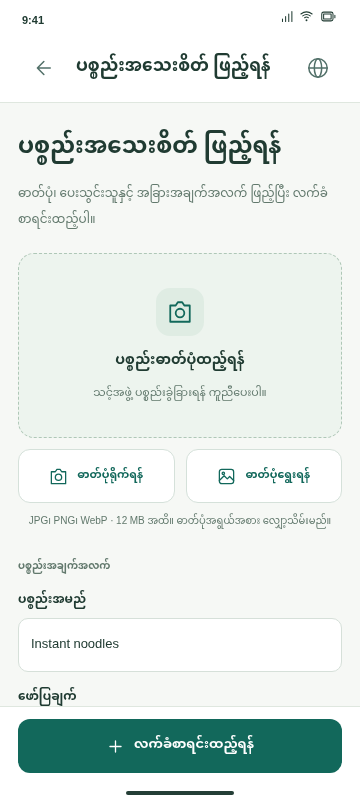
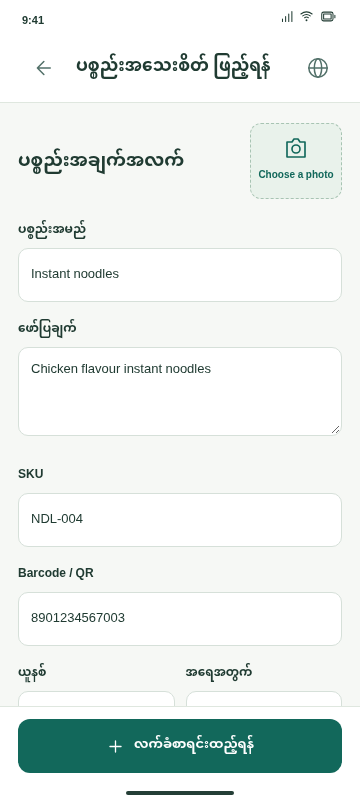
Refine item detail form with compact photo picker and supplier section

diff --git a/assets/app.js b/assets/app.js
@@ -96,12 +96,12 @@ function render(){
  h=`<div class="product-list">${productCard(p)}</div><div class="section-title"><h3>${t('allStock')}</h3><span class="pill">${esc(p.category||'—')}</span></div><div class="card">${kv('available',number(p.qty)+' '+p.unit)}${kv('threshold',number(p.threshold)+' '+p.unit)}${kv('location',p.location||'—')}${kv('barcode',p.barcode||t('noBarcode'))}${kv('supplier',supplierName(p.supplier))}${kv('description',p.description||'—')}${p.fda?kv('fda',p.fda):''}</div>${(p.batches||[]).filter(b=>b.qty>0).map(b=>`<div class="card"><span class="pill">${t('batch')} · ${esc(b.id)}</span>${kv('quantity',number(b.qty)+' '+p.unit)}${kv('expiry',date(b.expiry))}</div>`).join('')}<button class="button secondary full" ${action('reorder',p.id)}>${icon('suppliers')}${t('reorder')}</button>`;
  f=`<div class="two-col">${button('stockIn','productMove','in','primary','stockIn')}${button('stockOut','productMove','out','secondary','stockOut')}</div>${button('count','productMove','count','soft','count')}`;break}
  case'add':h=heading('addTitle','addHint')+sessionBanner()+`<button class="choice featured" ${action('scanStart')}><span>${icon('scan')}</span><span class="grow"><strong>${t('scanVoice')}</strong><p>${t('scanVoiceHint')}</p></span>${icon('chevron')}</button><button class="choice" ${action('manualStart')}><span>${icon('edit')}</span><span class="grow"><strong>${t('manual')}</strong><p>${t('manualHint')}</p></span>${icon('chevron')}</button>`+notice('nothingSaved');break;
- case'manual':h=heading('productInformation')+productForm()+notice('nothingSaved');f=button('review','reviewManual','','primary','arrow');break;
+ case'manual':h=productForm()+notice('nothingSaved');f=button('review','reviewManual','','primary','arrow');break;
  case'scan':h=`<div class="row between" style="margin-bottom:14px"><span class="pill">${icon('scan')}${t('scan')}</span><button class="text-button" ${action('manualStart')}>${icon('edit')}${t('manual')}</button></div>`+steps(1)+heading('scanTitle','scanHint')+`<div class="scanner"><video id="camera-video" muted playsinline></video><div class="scan-frame">${icon('barcode')}<div class="scan-line"></div></div><span class="scanner-caption" id="camera-status">BARCODE / QR</span></div>${button('camera','camera','','secondary','camera')}<p class="screen-caption">${t('cameraHint')}</p>${field('code','enterCode',form.code||'')}${button('findCode','findCode','','soft','search')}<p class="field-heading">${t('trySample')}</p><div class="demo-options">${['noodles','water','bread'].map((k,i)=>`<button ${action('sampleCode',i)}>${t(k)}</button>`).join('')}</div>`;break;
  case'detected':
  case'voice':h=`<span class="pill code-detected">${icon('check')}${t('barcodeDetected')}</span><div class="card detected-banner code-summary">${kv('barcode',form.barcode||'—')}${kv('status',t(form.existingId?'existingProduct':'newProduct'))}</div><h1 class="voice-heading">${t('useVoice')}</h1><p class="page-description">${t('voiceEntryHint')}</p><div class="voice-example">${t('voiceExample')}</div>${form.existingId?notice('sameProductHint'):''}<div class="voice-alternatives"><button class="text-button" id="hold-mic" aria-label="${t('holdTalk')}">${icon('mic')}${t('holdTalk')}</button><button class="text-button" ${action('sampleVoice')}>${t('useSample')}</button></div><p class="voice-demo-note">${t('voiceDemo')}</p>`;f=`<p class="voice-language">${t('speakLanguages')}</p><button class="push-talk-button" id="tap-record" ${action('tapRecord')} aria-label="${t('voice')}" aria-pressed="false">${icon('mic')}<strong id="recording-label">${t('voice')}</strong><span id="recording-hint">${t('tapRecord')}</span></button>`+button('manual','go','manual','secondary','keyboard');break;
  case'review':h=(form.method==='voice'?steps(3):'')+heading('reviewTitle','reviewHint')+(form.transcript?`<span class="overline">${t('transcript')}</span><div class="transcript">“${esc(form.transcript)}”</div>`:'')+`<div class="card">${kv('name',form.name)}${kv('barcode',form.barcode||'—')}${kv('quantity',number(parseNum(form.qty))+' '+form.unit)}${kv('description',form.description||'—')}${kv('supplier',supplierName(form.supplier))}${kv('expiry',date(form.expiry))}${kv('remark',form.remark||'—')}</div>`+notice('nothingSaved');f=button(form.method==='voice'?'confirmItem':'saveProduct',form.method==='voice'?'completeItem':'saveManual','','primary','check')+`<div class="two-col">${button('edit','go','manual','secondary','edit')}${form.method==='voice'?button('retryVoice','go','voice','secondary','mic'):button('cancel','go','add','secondary')}</div>`;break;
- case'itemDetails':h=heading('itemDetails','itemDetailsHint')+photoPanel()+`<p class="field-heading">${t('productInformation')}</p>${field('name','name')}${field('description','description',form.description||'','textarea')}<div class="two-col">${field('qty','quantity',form.qty,'number')}${field('unit','unit',form.unit||'packs')}</div>${field('barcode','barcode')}<p class="field-heading">${t('supplier')}</p>${supplierField()}<button class="button secondary full" ${action('addSupplier')}>${icon('plus')}${t('addSupplier')}</button>${selectedSupplierCard()}<p class="field-heading">${t('extraDetails')}</p><div class="two-col">${field('stockDate','stockDate',form.stockDate||today(),'date')}${field('expiry','expiry',form.expiry||'','date')}</div>${field('fda','fda')}${field('remark','remark',form.remark||'','textarea')}`+notice('sessionNotice');f=button('addToReceiving','queueItem','','primary','plus');break;
+ case'itemDetails':h=photoPanel()+`${field('name','name')}${field('description','description',form.description||'','textarea')}${field('sku','sku')}${field('barcode','barcode')}<div class="two-col">${field('unit','unit',form.unit||'packs')}${field('qty','quantity',form.qty,'number')}</div>${field('threshold','threshold',form.threshold??'10','number','thresholdHint')}<p class="field-heading">${t('supplier')}</p>${supplierField()}<button class="button secondary full" ${action('addSupplier')}>${icon('plus')}${t('addSupplier')}</button>${selectedSupplierCard()}<p class="field-heading">${t('extraDetails')}</p><div class="two-col">${field('stockDate','stockDate',form.stockDate||today(),'date')}${field('expiry','expiry',form.expiry||'','date')}</div>${field('fda','fda')}${field('remark','remark',form.remark||'','textarea')}`+notice('sessionNotice');f=button('addToReceiving','queueItem','','primary','plus');break;
  case'supplierForm':h=heading('addSupplier','supplierFormHint')+supplierForm();f=button('saveSupplier','saveSupplier','','primary','check')+button('cancel','supplierCancel','','secondary');break;
  case'session':h=heading('receiving','receivingHint')+(queue.length?queue.map((p,i)=>`<div class="session-item"><div class="row">${productArt(p)}<div class="grow"><h3>${esc(p.name)}</h3><p class="subline">${esc(p.barcode||p.sku||'—')}</p><p class="subline">${number(getProduct(p.existingId)?.qty||0)} → ${number((getProduct(p.existingId)?.qty||0)+parseNum(p.qty))} ${esc(p.unit)}</p></div><div class="stock-number"><strong>+${number(parseNum(p.qty))}</strong><small>${esc(p.unit)}</small></div></div><div class="two-col"><label class="form-field"><span>${t('expiry')}</span><input type="date" data-queue="${i}" data-key="expiry" value="${esc(p.expiry||'')}"></label><label class="form-field"><span>${t('remark')}</span><input data-queue="${i}" data-key="remark" value="${esc(p.remark||'')}"></label></div><div class="row between"><button class="text-button" ${action('editQueued',i)}>${icon('edit')}${t('editItem')}</button><button class="text-button bad" ${action('removeQueued',i)}>${icon('close')}${t('remove')}</button></div></div>`).join('')+notice('sessionNotice'):empty('sessionEmpty','sessionEmptyHint','count'));f=(queue.length?button('saveDelivery','saveDelivery','','primary','check'):'')+button('addAnother','scanStart','','secondary','plus');break;
  case'choose':h=heading(mode==='out'?'chooseOut':mode==='count'?'chooseCount':'chooseIn','chooseHint')+searchBox()+`<label class="form-field"><span>${t('selectProduct')}</span><select id="product-select"><option value="">— ${t('selectProduct')} —</option>${db.products.map(p=>`<option value="${esc(p.id)}">${esc(p.name)} · ${number(p.qty)} ${esc(p.unit)}</option>`).join('')}</select></label><div id="results">${productResults()}</div>`;if(mode==='in')f=button('add','newProduct','','secondary','plus');break;
@@ -130,8 +130,8 @@ function render(){
  $('preview-offline').setAttribute('aria-pressed',String(isOffline()));
  document.querySelectorAll('[data-icon]').forEach(el=>el.innerHTML=icon(el.dataset.icon));
 }
-function productForm(){return `<p class="field-heading">${t('productInformation')}</p>${field('name','name')}${field('description','description',form.description||'','textarea')}<div class="two-col">${field('sku','sku')}${field('barcode','barcode')}</div><div class="two-col">${field('fda','fda')}${field('category','category',form.category||'Food & staples','select','',options(['Food & staples','Packaged food','Beverages','Household','Other'].map(x=>[x,x]),form.category||'Food & staples'))}</div><p class="field-heading">${t('stockInformation')}</p><div class="two-col">${field('qty','quantity',form.qty,'number')}${field('unit','unit',form.unit||'packs')}</div>${supplierField()}<button class="button secondary full" ${action('addSupplier')}>${icon('plus')}${t('addSupplier')}</button><div class="two-col" style="margin-top:16px">${field('stockDate','stockDate',form.stockDate||today(),'date')}${field('expiry','expiry',form.expiry||'','date')}</div>${field('threshold','threshold',form.threshold??'10','number')}${field('remark','remark',form.remark||'','textarea')}<label class="form-field photo-input"><span>${t('photo')}</span><input type="file" id="photo-input" accept="image/png,image/jpeg,image/webp"><small>${t('photoHint')}</small><span id="photo-preview">${form.photo?`<img class="photo-preview" src="${esc(form.photo)}" alt="${t('photo')}">`:''}</span></label>`}
-function photoPanel(){return `<div class="photo-panel"><div class="photo-stage" id="photo-preview">${form.photo?`<img src="${esc(form.photo)}" alt="${t('photo')}">`:`<span class="photo-symbol">${icon('camera')}</span><strong>${t('photoPlaceholder')}</strong><p>${t('photoOptional')}</p>`}</div><div class="two-col"><label class="button secondary photo-control">${icon('camera')}${t('takePhoto')}<input type="file" data-product-photo accept="image/*" capture="environment" aria-label="${t('takePhoto')}"></label><label class="button secondary photo-control">${icon('photo')}${t('chooseGallery')}<input type="file" data-product-photo accept="image/jpeg,image/png,image/webp" aria-label="${t('chooseGallery')}"></label></div><p class="screen-caption">${t('photoHint')}</p>${form.photo?`<button class="text-button" ${action('removePhoto')}>${icon('close')}${t('removePhoto')}</button>`:''}</div>`}
+function productForm(){return photoPanel()+`${field('name','name')}${field('description','description',form.description||'','textarea')}<div class="two-col">${field('sku','sku')}${field('barcode','barcode')}</div><div class="two-col">${field('fda','fda')}${field('category','category',form.category||'Food & staples','select','',options(['Food & staples','Packaged food','Beverages','Household','Other'].map(x=>[x,x]),form.category||'Food & staples'))}</div><p class="field-heading">${t('stockInformation')}</p><div class="two-col">${field('unit','unit',form.unit||'packs')}${field('qty','quantity',form.qty,'number')}</div>${field('threshold','threshold',form.threshold??'10','number','thresholdHint')}${supplierField()}<button class="button secondary full" ${action('addSupplier')}>${icon('plus')}${t('addSupplier')}</button><div class="two-col" style="margin-top:16px">${field('stockDate','stockDate',form.stockDate||today(),'date')}${field('expiry','expiry',form.expiry||'','date')}</div>${field('remark','remark',form.remark||'','textarea')}`}
+function photoPanel(){return `<div class="product-info-heading"><h1>${t('productInformation')}</h1><details class="photo-picker"><summary id="photo-preview" aria-label="${t('photoPlaceholder')}">${form.photo?`<img src="${esc(form.photo)}" alt="${t('photo')}"><span class="photo-tile-edit">${icon('camera')}</span>`:`${icon('camera')}<span>${t('addPhoto')}</span>`}</summary><div class="photo-menu"><strong>${t('photo')}</strong><label class="button secondary photo-control">${icon('camera')}${t('takePhoto')}<input type="file" data-product-photo accept="image/*" capture="environment" aria-label="${t('takePhoto')}"></label><label class="button secondary photo-control">${icon('photo')}${t('chooseGallery')}<input type="file" data-product-photo accept="image/jpeg,image/png,image/webp" aria-label="${t('chooseGallery')}"></label><p>${t('photoHint')}</p>${form.photo?`<button class="text-button" ${action('removePhoto')}>${icon('close')}${t('removePhoto')}</button>`:''}</div></details></div>`}
 function selectedSupplierCard(){const s=db.suppliers.find(s=>s.id===form.supplier);return s?`<div class="card" style="margin-top:12px"><div class="row">${icon('suppliers')}<strong>${esc(s.name)}</strong></div>${s.contact?kv('contactPerson',s.contact):''}${s.phone?kv('contactNumber',s.phone):''}${s.email?kv('email',s.email):''}${s.social?kv('social',s.social):''}${s.address?kv('address',s.address):''}</div>`:''}
 function supplierForm(){return ['supplierName','contactPerson','contactNumber','email','social','address'].map((key,i)=>{const fieldName=['name','contact','phone','email','social','address'][i];return `<label class="form-field"><span>${t(key)}${i===0?' *':''}</span>${fieldName==='address'?`<textarea data-supplier-field="address">${esc(supplierDraft.address||'')}</textarea>`:`<input data-supplier-field="${fieldName}" type="${fieldName==='email'?'email':fieldName==='phone'?'tel':'text'}" value="${esc(supplierDraft[fieldName]||'')}">`}</label>`}).join('')}
 function saveSupplier(){if(!online())return;const d=Object.fromEntries(Object.entries(supplierDraft).map(([k,v])=>[k,v.trim()]));if(!d.name)return error('supplierNameRequired');if(d.email&&!/^[^\s@]+@[^\s@]+\.[^\s@]+$/.test(d.email))return error('emailInvalid');if(db.suppliers.some(s=>s.name.toLocaleLowerCase()===d.name.toLocaleLowerCase()))return error('supplierDuplicate');const next=clone(db),id=uid('SUP');next.suppliers.push({id,...d,category:''});if(!persist(next))return;form.supplier=id;reviewRevision=db.revision;screen=supplierReturn;stack.pop();render();toast('supplierAdded')}
@@ -191,14 +191,14 @@ const actions={
  toggleOffline:()=>{offlineSim=!offlineSim;if(isOffline()){stopCamera();cancelVoice()}render()},saveAlerts,
  saveWarehouse:()=>{if(!form.warehouse?.trim()||!form.location?.trim())return error('settingsInvalid');const next=clone(db);next.settings.warehouse=form.warehouse.trim();next.settings.location=form.location.trim();if(persist(next)){go('settings');toast('saved')}}
 };
-document.addEventListener('click',e=>{const el=e.target.closest('[data-action]');if(!el||el.disabled)return;const fn=actions[el.dataset.action];if(fn){e.preventDefault();fn(el.dataset.value)}});
+document.addEventListener('click',e=>{if(!e.target.closest('.photo-picker'))document.querySelectorAll('.photo-picker[open]').forEach(p=>p.removeAttribute('open'));const el=e.target.closest('[data-action]');if(!el||el.disabled)return;const fn=actions[el.dataset.action];if(fn){e.preventDefault();fn(el.dataset.value)}});
 document.addEventListener('input',e=>{const el=e.target;if(el.dataset.field&&el.value!=='__new__')form[el.dataset.field]=el.value;if(el.dataset.supplierField)supplierDraft[el.dataset.supplierField]=el.value;if(el.dataset.queue!==undefined)queue[Number(el.dataset.queue)][el.dataset.key]=el.value;if(el.dataset.threshold){form.thresholds=form.thresholds||{};form.thresholds[el.dataset.threshold]=el.value}if(el.hasAttribute('data-search')){query=el.value;$('results').innerHTML=screen==='history'?historyResults():productResults()}});
 document.addEventListener('change',e=>{const el=e.target;if(el.dataset.field==='supplier'&&el.value==='__new__'){actions.addSupplier();return}if(el.dataset.field==='supplier'&&screen==='itemDetails'){const pos=$('screen').scrollTop;render();$('screen').scrollTop=pos;return}if(el.id==='product-select'&&el.value)actions.chooseProduct(el.value);if(el.id==='photo-input'||el.hasAttribute('data-product-photo')){const file=el.files[0];if(file)readPhoto(file,form)}});
 
 document.addEventListener('pointerdown',e=>{if(e.target.closest('#hold-mic')){e.preventDefault();e.target.closest('#hold-mic').setPointerCapture?.(e.pointerId);recordVoice(true)}});
 document.addEventListener('pointerup',e=>{if(e.target.closest('#hold-mic'))stopVoice()});
 document.addEventListener('pointercancel',()=>{if(recording){cancelVoice();render()}});
-document.addEventListener('keydown',e=>{if(e.target.id==='hold-mic'&&(e.key===' '||e.key==='Enter')&&!e.repeat){e.preventDefault();recording?stopVoice():recordVoice()}});
+document.addEventListener('keydown',e=>{if(e.key==='Escape')document.querySelectorAll('.photo-picker[open]').forEach(p=>{p.removeAttribute('open');p.querySelector('summary').focus()});if(e.target.id==='hold-mic'&&(e.key===' '||e.key==='Enter')&&!e.repeat){e.preventDefault();recording?stopVoice():recordVoice()}});
 window.addEventListener('offline',()=>{stopCamera();cancelVoice();render()});window.addEventListener('online',()=>render());
 window.addEventListener('pagehide',()=>{stopCamera();cancelVoice()});
 window.addEventListener('storage',e=>{if(e.key===KEY){try{const next=JSON.parse(e.newValue);if(next?.version===3){db=next;if(!['manual','review','itemDetails','supplierForm','movement','movementReview','voice','session','scan','detected'].includes(screen))render();else toast('conflict')}}catch{}}});

diff --git a/assets/styles.css b/assets/styles.css
@@ -17,3 +17,6 @@
 .phone[data-screen="detected"] .footer-actions,.phone[data-screen="voice"] .footer-actions{max-height:46vh;padding:12px 18px 18px;gap:12px}
 .code-detected{margin:10px 0 15px}.code-detected .icon{width:14px;height:14px}.detected-banner.code-summary{display:block;padding:13px 16px;margin-bottom:21px;border-color:var(--line)}.code-summary .kv{font-size:12px;padding:12px 0}.code-summary .kv strong{font-size:12px;letter-spacing:normal;margin:0}.voice-heading{font-size:19px;letter-spacing:-.4px;line-height:1.5;margin-bottom:10px}.voice-example{padding:14px;border:1px solid #d9e8de;border-radius:11px;background:#edf5ef;color:#4e6e5c;font-size:12px;line-height:1.8}.voice-language{font-size:12px;color:var(--muted);text-align:center;line-height:1.7}.push-talk-button{background:var(--brand);color:white;display:flex;align-items:center;justify-content:center;flex-direction:column;gap:10px;min-height:136px;width:100%;border-radius:15px;padding:20px 15px;touch-action:manipulation}.push-talk-button:hover{background:var(--brand-dark)}.push-talk-button>.icon{width:29px;height:32px;stroke-width:1.7}.push-talk-button strong{font-size:19px;line-height:1.5}.push-talk-button>span{font-size:12px;line-height:1.7;color:#e2f0e8}.push-talk-button.recording{background:#a63c32}.voice-alternatives{display:flex;flex-wrap:wrap;gap:4px 15px;justify-content:space-between;margin-top:10px}.voice-alternatives .text-button{font-size:11px}.voice-demo-note{font-size:10px;color:var(--muted);line-height:1.8}.phone[data-screen="detected"] .button.secondary,.phone[data-screen="voice"] .button.secondary{min-height:53px}.phone[data-screen="detected"] #screen,.phone[data-screen="voice"] #screen{padding-bottom:16px}
 @media(max-height:700px){.push-talk-button{min-height:110px;padding:14px}.phone[data-screen="detected"] .footer-actions,.phone[data-screen="voice"] .footer-actions{padding-top:8px;padding-bottom:10px;gap:8px}}
+
+/* Compact image slot from the item-information reference. */
+.product-info-heading{display:flex;align-items:center;justify-content:space-between;gap:14px;margin:0 0 22px;min-height:76px}.product-info-heading h1{font-size:18px;line-height:1.5;letter-spacing:-.35px;flex:1;min-width:0}.photo-picker{position:relative;flex-shrink:0}.photo-picker>summary{width:92px;height:76px;border:1px dashed #a8c4b3;border-radius:11px;background:#e9f2eb;color:var(--brand);display:flex;flex-direction:column;align-items:center;justify-content:center;gap:5px;cursor:pointer;position:relative;list-style:none;overflow:hidden}.photo-picker>summary::-webkit-details-marker{display:none}.photo-picker>summary>.icon{width:24px;height:24px}.photo-picker>summary>span:not(.photo-tile-edit){font-size:10px;font-weight:650;text-align:center}.photo-picker>summary>img{width:100%;height:100%;object-fit:cover}.photo-tile-edit{position:absolute;right:4px;bottom:4px;width:24px;height:24px;background:white;border-radius:7px;display:grid;place-items:center}.photo-tile-edit .icon{width:16px;height:16px}.photo-menu{position:absolute;right:0;top:85px;width:min(260px,calc(100vw - 50px));z-index:8;background:white;border:1px solid var(--line);border-radius:14px;padding:14px;box-shadow:0 10px 35px #203b3226;display:grid;gap:9px}.photo-menu>strong{font-size:13px}.photo-menu>p{font-size:10px;line-height:1.7;color:var(--muted)}.photo-menu .photo-control{justify-content:flex-start;padding-left:12px;font-size:12px}.phone[data-screen="itemDetails"] .form-field,.phone[data-screen="manual"] .form-field{margin-bottom:18px}

diff --git a/SPEC.md b/SPEC.md
@@ -40,7 +40,7 @@ Excluded: checkout, cart/sales, payments, invoices, POS, forecasting, cross-ware
 3. Show **Add item information** with a detected-code badge and a barcode/status card. Provide **Push to Talk on the same screen** as a large bottom action above **Type manually**, following the supplied two-screen reference. The user can hold to record, use the accessible tap-to-start/stop alternative, or type manually.
 4. Cloud transcription/extraction produces an editable draft: product name, description, quantity, and unit. Do not invent FDA codes, expiry, photos, supplier, or other missing metadata.
 5. Show the original transcript and extracted fields. **Record again** returns to Push to Talk with the barcode preserved. **Edit details** opens the manual form. No stock changes here.
-6. **Confirm & continue** opens **Complete item details**. Place a prominent product-image area first, with **Take photo** (device camera capture) and **Choose from gallery**. Omit location. Preserve the scanned code and reviewed name, description and quantity. Choose an existing supplier from a dropdown, or **Add new supplier** with name, contact person, phone, email, social link/account and address. Save the supplier, return to the same draft, and preselect it. Add optional FDA code, receiving/expiry dates and remarks. **Add to receiving list** then appends the enriched draft. Repeat for additional products; the PRD demo is noodles → water → bread.
+6. **Confirm & continue** opens **Complete item details**. Place a compact image placeholder beside **Product information**, as in the supplied detail-form reference. Activating it offers **Take photo** (device camera capture) and **Choose from gallery**. Show product name, description, SKU, barcode, unit/quantity and low-stock threshold before supplier details; preserve the same layout for manual entry. Omit location. Preserve the scanned code and reviewed name, description and quantity. Choose an existing supplier from a dropdown, or **Add new supplier** with name, contact person, phone, email, social link/account and address. Save the supplier, return to the same draft, and preselect it. Add optional FDA code, receiving/expiry dates and remarks. **Add to receiving list** then appends the enriched draft. Repeat for additional products; the PRD demo is noodles → water → bread.
 7. Review the list; edit/remove items, add per-item expiry dates and remarks. Existing-product quantity means **quantity received**, never an unannounced replacement of the available balance.
 8. **Save delivery** is the only inventory mutation for that receiving session. Product updates, receiving batches and movement records must commit together. Display success and links to receipts / next item / Home.
 
